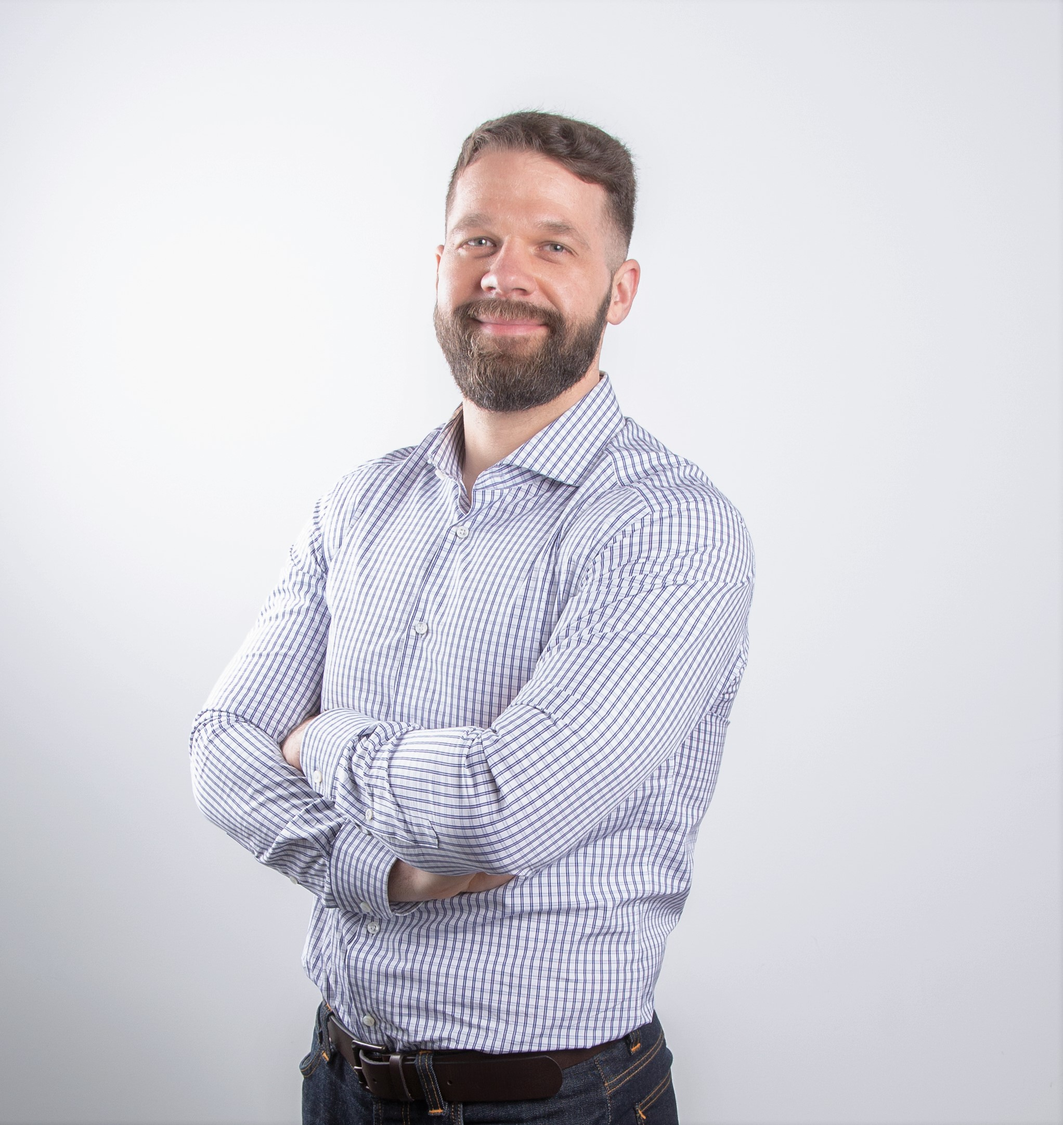
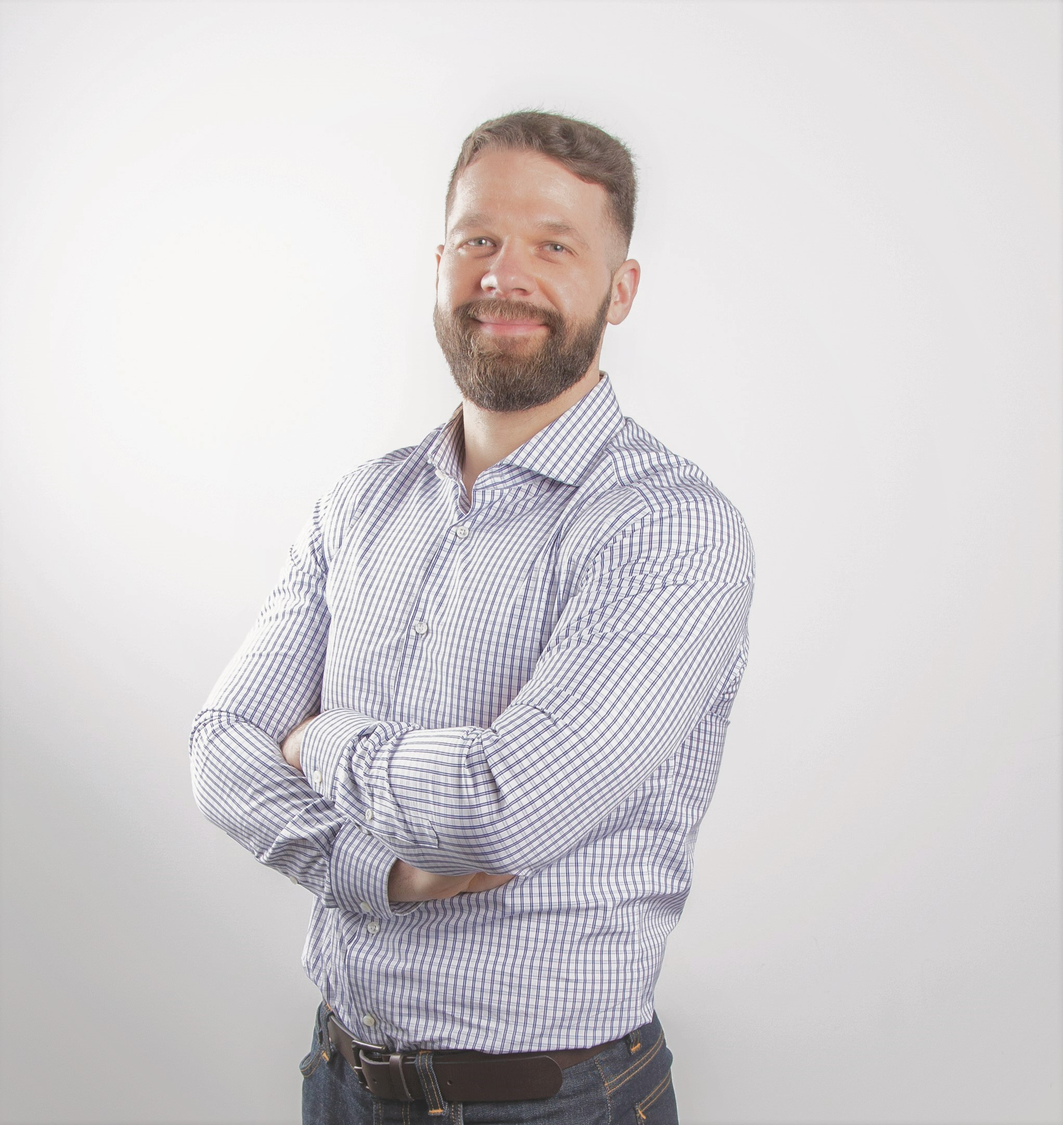
update profile pic

diff --git a/docs/about.html b/docs/about.html
@@ -7,7 +7,7 @@
 <meta name="viewport" content="width=device-width, initial-scale=1.0, user-scalable=yes">
 
 
-<title>My Blog - About</title>
+<title>My Blog - Alex Labuda</title>
 <style>
 code{white-space: pre-wrap;}
 span.smallcaps{font-variant: small-caps;}
@@ -79,7 +79,7 @@ ul.task-list li input[type="checkbox"] {
           <div class="collapse navbar-collapse" id="navbarCollapse">
             <ul class="navbar-nav navbar-nav-scroll ms-auto">
   <li class="nav-item">
-    <a class="nav-link active" href="./about.html" aria-current="page">About</a>
+    <a class="nav-link active" href="./about.html" aria-current="page">Alex Labuda</a>
   </li>  
   <li class="nav-item compact">
     <a class="nav-link" href="https://github.com/"><i class="bi bi-github" role="img">
@@ -108,7 +108,7 @@ ul.task-list li input[type="checkbox"] {
     <div class="entity-contents">
       <header id="title-block-header" class="quarto-title-block default">
 <div class="quarto-title">
-<h1 class="title">About</h1>
+<h1 class="title">Alex Labuda</h1>
 </div>
 <div class="quarto-title-meta">
   </div>
@@ -123,9 +123,20 @@ ul.task-list li input[type="checkbox"] {
   </a>
 </div>
       <div class="about-contents"><main class="content" id="quarto-document-content">
-<p>About this blog</p>
+<p>I am a Data Scientist and Tableau developer based in New York, currently working for Zion &amp; Zion, a full-service marketing agency in Tempe, Arizona.</p>
+<section id="education" class="level2">
+<h2 data-anchor-id="education">Education</h2>
+<p>State University of New York, New Paltz | New Paltz, NY BA in Data Analytics &amp; Finance (Dual Major) | Jan 2019 - Dec 2021</p>
+<p>SUNY Orange New York, Middletown | Middletown, NY AS in Liberal Arts | Jan 2009 - June 2011</p>
+</section>
+<section id="experience" class="level2">
+<h2 data-anchor-id="experience">Experience</h2>
+<p>Zion &amp; Zion | Data Scientist &amp; Tableau Developer | Jan 2021 - Present</p>
+<p>FedEx Express | Courier | Feb 2014 - March 2021</p>
+<p>FedEx Ground | Courier | Oct 2011 - Feb 2014</p>
 
 
+</section>
 </main></div>
     </div>
     <img src="profile.jpg" class="about-image
